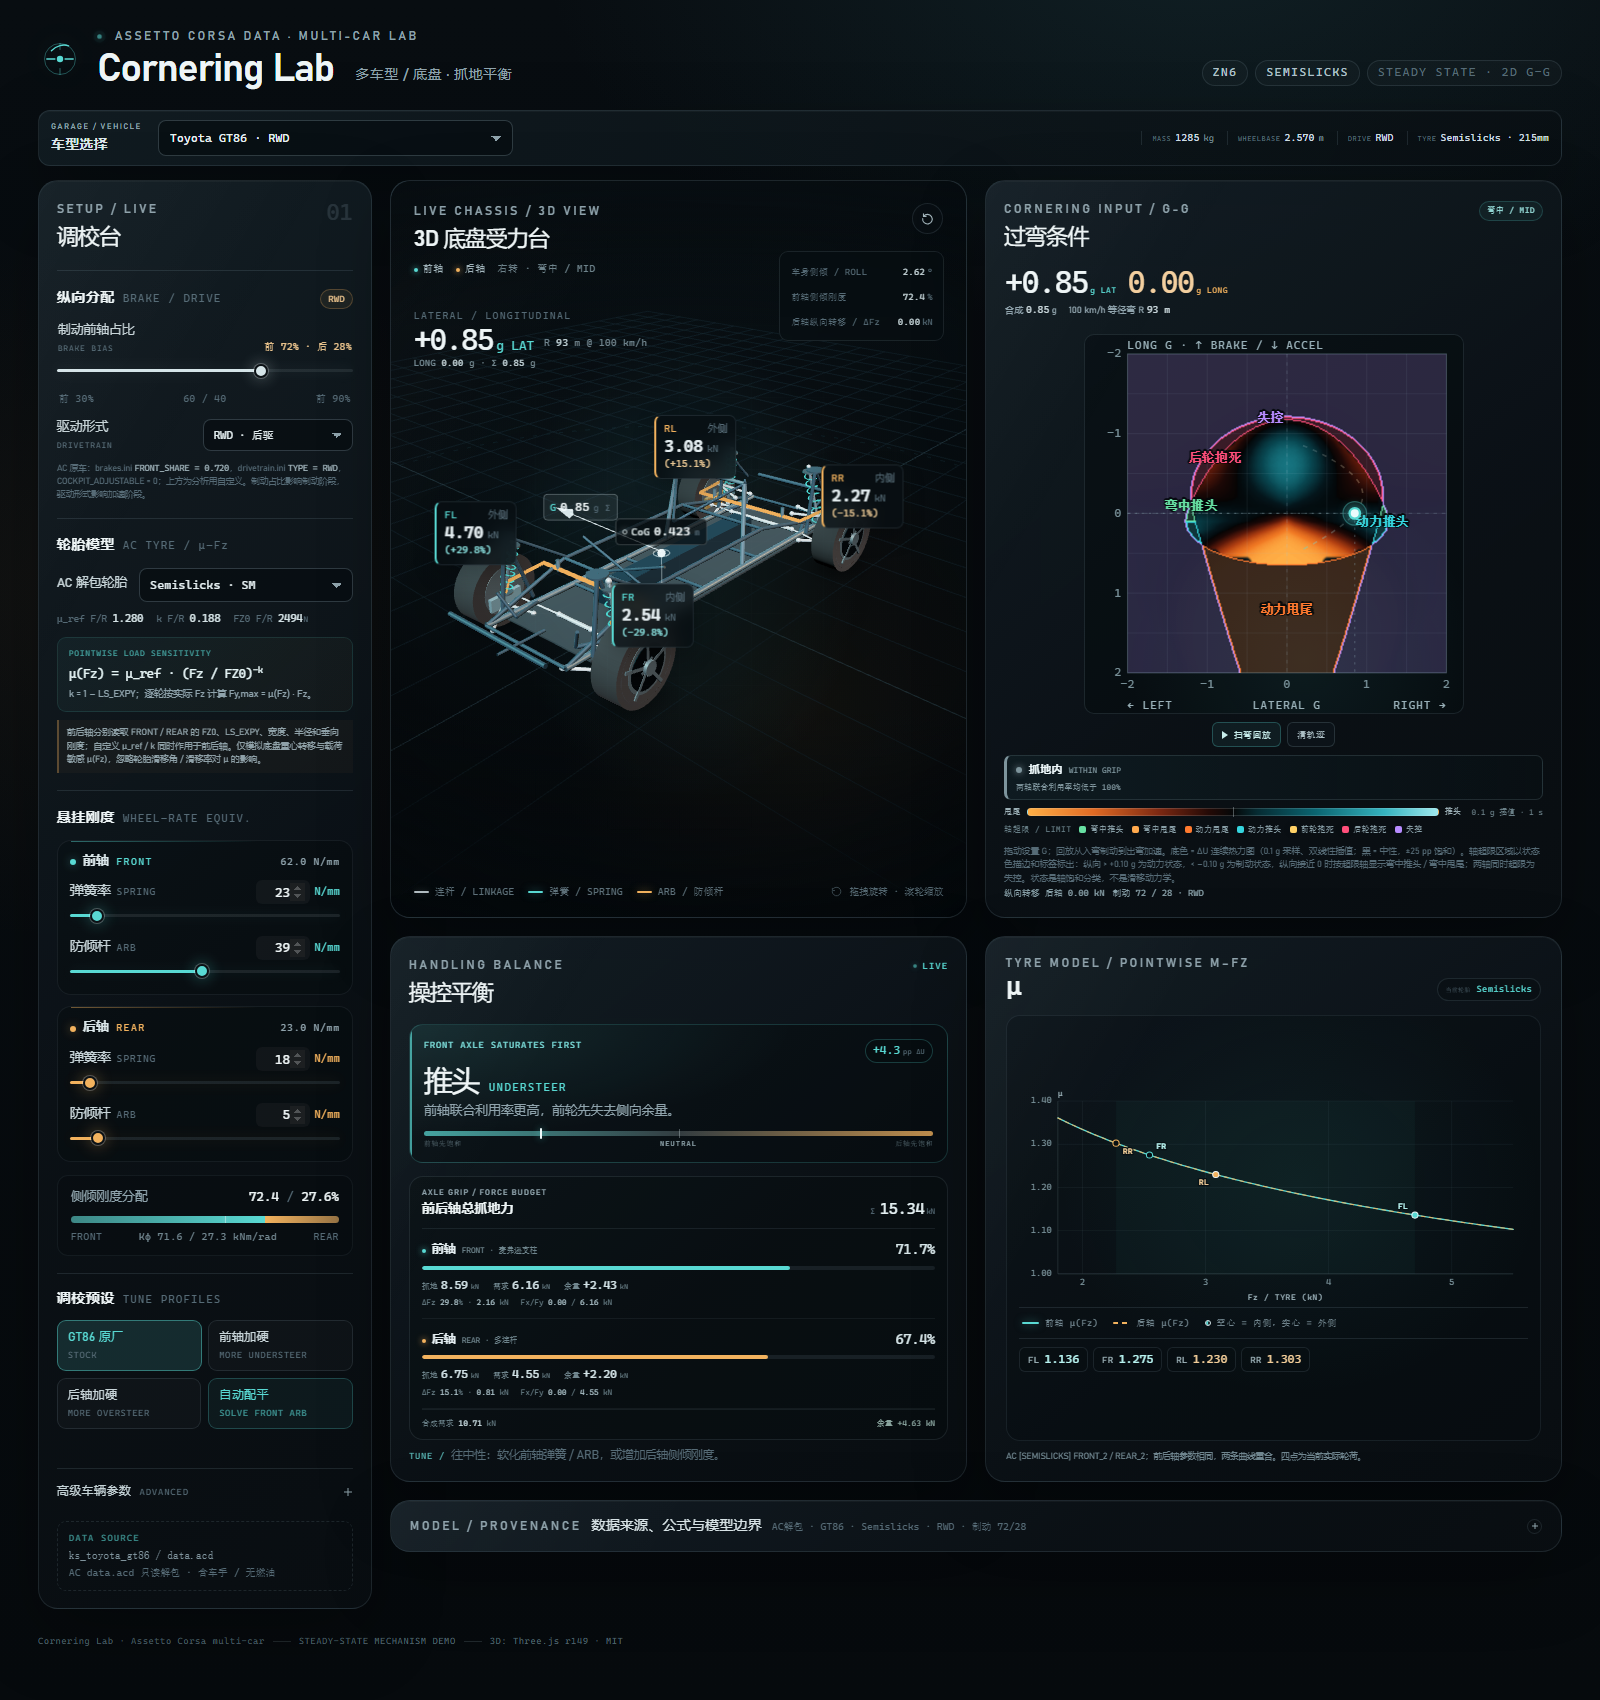
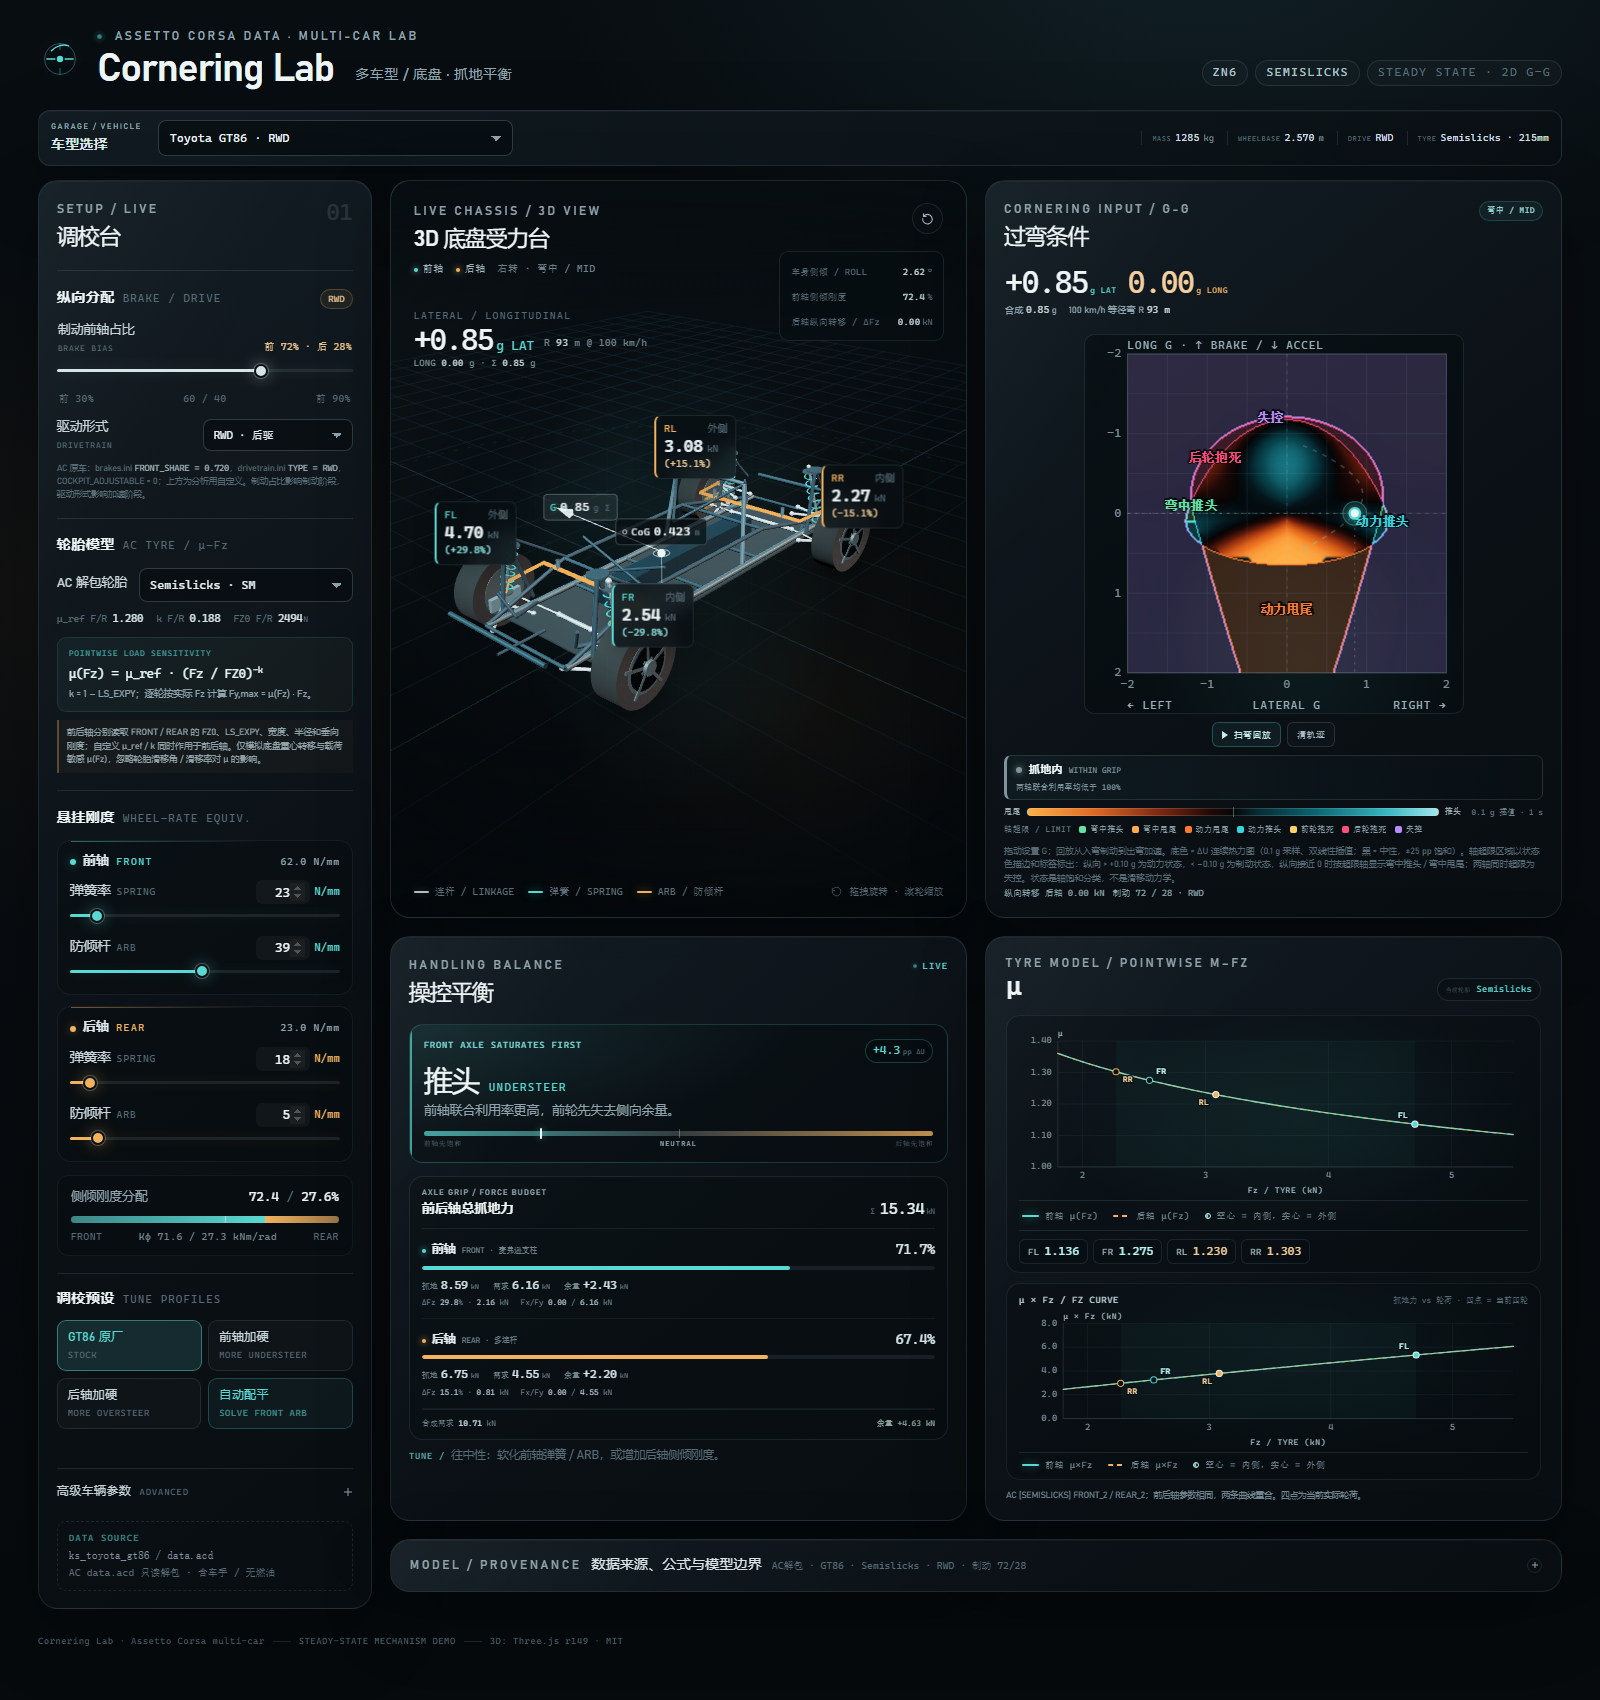
Add per-tyre mu x Fz grip curves to the mu panel

diff --git a/app.js b/app.js
@@ -1858,7 +1858,7 @@
     var note = $('tyreCurveNote');
 
     var width = 760;
-    var height = 330;
+    var height = 260;
     var margin = { left: 58, right: 22, top: 24, bottom: 48 };
     var plotWidth = width - margin.left - margin.right;
     var plotHeight = height - margin.top - margin.bottom;
@@ -2121,6 +2121,232 @@
       currentTyreName() + ' 轮胎 μ–Fz 曲线；' + pointSummary + '。');
   }
 
+  function renderTyreForceCurve(result) {
+    var svg = $('tyreForceSvg');
+    if (!svg) {
+      return;
+    }
+
+    var gridGroup = $('tyreForceGrid');
+    var axesGroup = $('tyreForceAxes');
+    var pointsGroup = $('tyreForcePoints');
+    var frontPath = $('tyreForceFrontLine');
+    var rearPath = $('tyreForceRearLine');
+    if (!gridGroup || !axesGroup || !pointsGroup) {
+      return;
+    }
+
+    var width = 760;
+    var height = 210;
+    var margin = { left: 66, right: 22, top: 20, bottom: 48 };
+    var plotWidth = width - margin.left - margin.right;
+    var plotHeight = height - margin.top - margin.bottom;
+    var tyreState = result.state;
+
+    function muAtLoad(load, axle) {
+      var muRef = axle === 'rear'
+        ? tyreState.tireRearMuRef
+        : tyreState.tireMuRef;
+      var fz0N = axle === 'rear'
+        ? tyreState.tireRearFz0N
+        : tyreState.tireFz0N;
+      var k = axle === 'rear'
+        ? tyreState.tireRearLoadSensitivityK
+        : tyreState.tireLoadSensitivityK;
+      if (!(load > 0) || !(fz0N > 0)) {
+        return 0;
+      }
+      return muRef * Math.pow(load / fz0N, -k);
+    }
+
+    function forceAtLoad(load, axle) {
+      return muAtLoad(load, axle) * load / 1000;
+    }
+
+    var samples = TYRE_POINT_DEFS.map(function (definition) {
+      var grip = result.wheelGrip[definition.code];
+      var isLeftWheel = definition.code === 'FL' || definition.code === 'RL';
+      var isOuter = result.outerSide !== 'none' &&
+        ((result.outerSide === 'left' && isLeftWheel) ||
+          (result.outerSide === 'right' && !isLeftWheel));
+      return {
+        definition: definition,
+        load: grip.load,
+        mu: grip.mu,
+        capacity: grip.capacity,
+        axle: definition.front ? 'front' : 'rear',
+        side: isOuter ? 'outer' : 'inner'
+      };
+    });
+
+    var positiveSamples = samples.filter(function (sample) {
+      return sample.load > 0;
+    });
+    var loadValues = positiveSamples.map(function (sample) {
+      return sample.load;
+    });
+    var minLoad = loadValues.length ? Math.min.apply(null, loadValues) : 1800;
+    var maxLoad = loadValues.length ? Math.max.apply(null, loadValues) : 4700;
+    var xMin = Math.max(400, Math.floor(minLoad * 0.82 / 100) * 100);
+    var xMax = Math.ceil(Math.max(maxLoad * 1.12, xMin + 1800) / 500) * 500;
+
+    var forceCandidates = [
+      forceAtLoad(xMin, 'front'),
+      forceAtLoad(xMax, 'front'),
+      forceAtLoad(xMin, 'rear'),
+      forceAtLoad(xMax, 'rear')
+    ].concat(samples.map(function (sample) {
+      return sample.capacity / 1000;
+    }));
+    var rawMax = Math.max.apply(null, forceCandidates.concat([0.5])) * 1.15;
+    var yStep = niceStep(rawMax / 4);
+    var yMax = Math.ceil(rawMax / yStep) * yStep;
+    if (!(yMax > 0)) {
+      yMax = yStep * 4;
+    }
+
+    function xPixel(load) {
+      return margin.left + ((load - xMin) / (xMax - xMin)) * plotWidth;
+    }
+
+    function yPixel(force) {
+      return margin.top + (1 - force / yMax) * plotHeight;
+    }
+
+    clearSvgGroup(gridGroup);
+    clearSvgGroup(axesGroup);
+    clearSvgGroup(pointsGroup);
+
+    if (maxLoad > minLoad) {
+      gridGroup.appendChild(createSvgElement('rect', {
+        x: xPixel(minLoad).toFixed(2),
+        y: margin.top,
+        width: Math.max(1, xPixel(maxLoad) - xPixel(minLoad)).toFixed(2),
+        height: plotHeight,
+        class: 'tyre-load-band'
+      }));
+    }
+
+    var yTicks = [];
+    for (var yValue = 0; yValue <= yMax + yStep * 0.001; yValue += yStep) {
+      yTicks.push(Number(yValue.toFixed(4)));
+    }
+    yTicks.forEach(function (tick) {
+      var py = yPixel(tick);
+      gridGroup.appendChild(createSvgElement('line', {
+        x1: margin.left,
+        y1: py.toFixed(2),
+        x2: width - margin.right,
+        y2: py.toFixed(2)
+      }));
+      axesGroup.appendChild(createSvgElement('text', {
+        x: margin.left - 9,
+        y: (py + 3.2).toFixed(2),
+        'text-anchor': 'end'
+      }, tick.toFixed(1)));
+    });
+
+    var xStep = niceStep((xMax - xMin) / 5);
+    for (var xValue = Math.ceil(xMin / xStep) * xStep;
+      xValue <= xMax + xStep * 0.001; xValue += xStep) {
+      var px = xPixel(xValue);
+      gridGroup.appendChild(createSvgElement('line', {
+        x1: px.toFixed(2),
+        y1: margin.top,
+        x2: px.toFixed(2),
+        y2: height - margin.bottom
+      }));
+      axesGroup.appendChild(createSvgElement('text', {
+        x: px.toFixed(2),
+        y: height - margin.bottom + 17,
+        'text-anchor': 'middle'
+      }, (xValue / 1000).toFixed(xStep >= 1000 ? 0 : 1)));
+    }
+
+    axesGroup.appendChild(createSvgElement('line', {
+      x1: margin.left,
+      y1: margin.top,
+      x2: margin.left,
+      y2: height - margin.bottom
+    }));
+    axesGroup.appendChild(createSvgElement('line', {
+      x1: margin.left,
+      y1: height - margin.bottom,
+      x2: width - margin.right,
+      y2: height - margin.bottom
+    }));
+    axesGroup.appendChild(createSvgElement('text', {
+      x: margin.left,
+      y: margin.top - 6,
+      'text-anchor': 'start',
+      class: 'tyre-axis-title'
+    }, 'μ × Fz (kN)'));
+    axesGroup.appendChild(createSvgElement('text', {
+      x: margin.left + plotWidth / 2,
+      y: height - 9,
+      'text-anchor': 'middle',
+      class: 'tyre-axis-title'
+    }, 'Fz / TYRE (kN)'));
+
+    var frontPathData = '';
+    var rearPathData = '';
+    var sampleCount = 100;
+    for (var i = 0; i <= sampleCount; i += 1) {
+      var sampleLoad = xMin + ((xMax - xMin) * i) / sampleCount;
+      var pxPath = xPixel(sampleLoad);
+      var frontPy = yPixel(forceAtLoad(sampleLoad, 'front'));
+      var rearPy = yPixel(forceAtLoad(sampleLoad, 'rear'));
+      frontPathData += (i === 0 ? 'M' : 'L') +
+        pxPath.toFixed(2) + ' ' + frontPy.toFixed(2);
+      rearPathData += (i === 0 ? 'M' : 'L') +
+        pxPath.toFixed(2) + ' ' + rearPy.toFixed(2);
+      if (i < sampleCount) {
+        frontPathData += ' ';
+        rearPathData += ' ';
+      }
+    }
+    if (frontPath) {
+      frontPath.setAttribute('d', frontPathData);
+    }
+    if (rearPath) {
+      rearPath.setAttribute('d', rearPathData);
+    }
+
+    var pointSummary = [];
+    samples.forEach(function (sample) {
+      if (!(sample.load > 0)) {
+        return;
+      }
+      var definition = sample.definition;
+      var pointX = xPixel(sample.load);
+      var pointY = yPixel(sample.capacity / 1000);
+      var marker = createSvgElement('circle', {
+        cx: pointX.toFixed(2),
+        cy: pointY.toFixed(2),
+        r: 4.6,
+        class: 'tyre-point-marker tyre-point-marker--' + definition.axle +
+          ' is-' + sample.side
+      });
+      marker.appendChild(createSvgElement('title', null,
+        definition.code + ' · Fz ' + (sample.load / 1000).toFixed(2) +
+        ' kN · μ ' + sample.mu.toFixed(3) +
+        ' · μ × Fz ' + (sample.capacity / 1000).toFixed(2) + ' kN'));
+      pointsGroup.appendChild(marker);
+      pointsGroup.appendChild(createSvgElement('text', {
+        x: (pointX + definition.labelDx).toFixed(2),
+        y: (pointY + definition.labelDy).toFixed(2),
+        'text-anchor': definition.anchor,
+        class: 'tyre-point-label tyre-point-label--' + definition.axle
+      }, definition.code));
+      pointSummary.push(definition.code + ' ' +
+        (sample.capacity / 1000).toFixed(2) + ' kN');
+    });
+
+    svg.setAttribute('aria-label',
+      '前轴与后轴轮胎 μ×Fz 抓地力随垂向载荷变化；当前 ' +
+      pointSummary.join('，') + '。');
+  }
+
   function updatePresetActive() {
     var buttons = document.querySelectorAll('[data-preset]');
     buttons.forEach(function (button) {
@@ -2146,6 +2372,7 @@
     updateWheelLabels(result);
     updatePresetActive();
     renderTyreCurve(result);
+    renderTyreForceCurve(result);
 
     if (scene) {
       scene.setModel(result);

diff --git a/index.html b/index.html
@@ -671,7 +671,7 @@
           </div>
 
           <div class="tyre-plot">
-            <svg id="tyreCurveSvg" viewBox="0 0 760 330" role="img" aria-label="轮胎摩擦系数 μ 随垂向载荷 Fz 变化的曲线">
+            <svg id="tyreCurveSvg" viewBox="0 0 760 260" role="img" aria-label="轮胎摩擦系数 μ 随垂向载荷 Fz 变化的曲线">
               <g id="tyreCurveGrid" class="tyre-curve-grid"></g>
               <g id="tyreCurveAxes" class="tyre-curve-axes"></g>
               <path id="tyreCurveFront" class="tyre-curve-line tyre-curve-line--front" fill="none"></path>
@@ -690,6 +690,26 @@
               <span class="tyre-wheel-chip tyre-wheel-chip--rear" data-tyre-row="RR"><i>RR</i><b id="curveRRMu">1.303</b></span>
             </div>
           </div>
+
+          <div class="tyre-force-plot" aria-label="前轴与后轴轮胎的 μ × Fz 抓地力随 Fz 变化">
+            <div class="tyre-force-head">
+              <strong>μ × Fz / FZ CURVE</strong>
+              <span>抓地力 vs 轮荷 · 四点 = 当前四轮</span>
+            </div>
+            <svg id="tyreForceSvg" viewBox="0 0 760 210" role="img" aria-label="前轴与后轴轮胎的 μ × Fz 抓地力随垂向载荷变化的曲线，四个标记点为当前轮胎状态">
+              <g id="tyreForceGrid" class="tyre-curve-grid"></g>
+              <g id="tyreForceAxes" class="tyre-curve-axes"></g>
+              <path id="tyreForceFrontLine" class="tyre-curve-line tyre-curve-line--front" fill="none"></path>
+              <path id="tyreForceRearLine" class="tyre-curve-line tyre-curve-line--rear" fill="none"></path>
+              <g id="tyreForcePoints" class="tyre-curve-points"></g>
+            </svg>
+            <div class="tyre-curve-legend tyre-force-legend">
+              <span><i class="tyre-legend-line tyre-legend-line--front"></i>前轴 μ×Fz</span>
+              <span><i class="tyre-legend-line tyre-legend-line--rear"></i>后轴 μ×Fz</span>
+              <span><i class="tyre-legend-dot"></i>空心 = 内侧，实心 = 外侧</span>
+            </div>
+          </div>
+
           <p class="tyre-curve-note" id="tyreCurveNote">四个标记点按当前实际轮荷落在曲线上。</p>
         </section>
       </div>

diff --git a/styles.css b/styles.css
@@ -3330,7 +3330,7 @@ input:focus-visible {
   display: block;
   width: 100%;
   height: auto;
-  min-height: 206px;
+  min-height: 150px;
   overflow: visible;
 }
 
@@ -3509,6 +3509,50 @@ input:focus-visible {
 
 .tyre-wheel-chip.is-lifted {
   opacity: 0.42;
+}
+
+.tyre-force-plot {
+  margin-top: 10px;
+  padding: 9px 12px 8px;
+  border: 1px solid rgba(170, 201, 213, 0.1);
+  border-radius: 14px;
+  background:
+    radial-gradient(ellipse at 55% 30%, rgba(48, 121, 127, 0.08), transparent 60%),
+    rgba(4, 10, 13, 0.3);
+}
+
+.tyre-force-head {
+  display: flex;
+  flex-wrap: wrap;
+  align-items: baseline;
+  justify-content: space-between;
+  gap: 4px 10px;
+  color: var(--faint);
+  font-family: var(--font-mono);
+}
+
+.tyre-force-head strong {
+  color: #b8cdd3;
+  font-size: 9.4px;
+  font-weight: 400;
+  letter-spacing: 0.04em;
+}
+
+.tyre-force-head span {
+  font-size: 8px;
+}
+
+.tyre-force-plot svg {
+  display: block;
+  width: 100%;
+  height: auto;
+  min-height: 135px;
+  margin-top: 3px;
+  overflow: visible;
+}
+
+.tyre-force-legend {
+  padding-top: 5px;
 }
 
 .tyre-curve-side {

diff --git a/README.md b/README.md
@@ -47,7 +47,8 @@
 - **制动平衡与驱动形式**：默认取所选车型 `brakes.ini` 的前轴占比和 `drivetrain.ini` 的驱动形式；页内可调前轴制动占比（30–90%），并可切换 RWD / FWD / AWD（AWD 采用 50/50 近似）。
 - **AC 轮胎选择**：每款车只列出该车 `tyres.ini` 中真正存在的胶料，默认胶料按 `[COMPOUND_DEFAULT] INDEX` 选择；另有自定义模式可编辑 **μ_ref / k**（前后共用，FZ0 继承上一次 AC 胶料）。
 - **逐轴轮胎模型**：新增车系常使用不同的前 / 后轮胎宽度、半径、垂向 RATE、FZ0 和 LS_EXPY；计算与 μ–Fz 面板分别读取 FRONT / REAR 参数。前后轴参数不同时，两条曲线会分开显示；WIDTH 本身不进入载荷敏感幂律。
-- **操控平衡面板整合轴抓地信息**：状态结论、ΔU 横向指示条、前后轴总抓地力 / 合成需求 / 联合利用率 / 余量，以及 ΔFz 和 Fx/Fy 分解放在同一面板；不再额外重复一组轴卡。μ–Fz 面板只保留前后曲线、四个轮位标记和当前 μ 值，不再重复显示轮胎参数表。
+- **操控平衡面板整合轴抓地信息**：状态结论、ΔU 横向指示条、前后轴总抓地力 / 合成需求 / 联合利用率 / 余量，以及 ΔFz 和 Fx/Fy 分解放在同一面板；不再额外重复一组轴卡。
+- **μ 面板双曲线**：上图是前后轴的 μ–Fz 曲线；下图是前后轴轮胎的 **μ × Fz–Fz 抓地力曲线**，四个标记点对应当前 FL / FR / RL / RR 的实际轮荷与抓地力。四轮 μ 值以紧凑芯片显示，不再重复轮胎参数表。
 - 内侧轮离地、轴荷卸载、总抓地力不足、轴饱和、低载荷敏感度等警告。
 - **模型范围说明**：仅模拟底盘重心 / 载荷转移与载荷敏感 μ(Fz)；忽略轮胎滑移角、滑移率对 μ 的影响。
 
